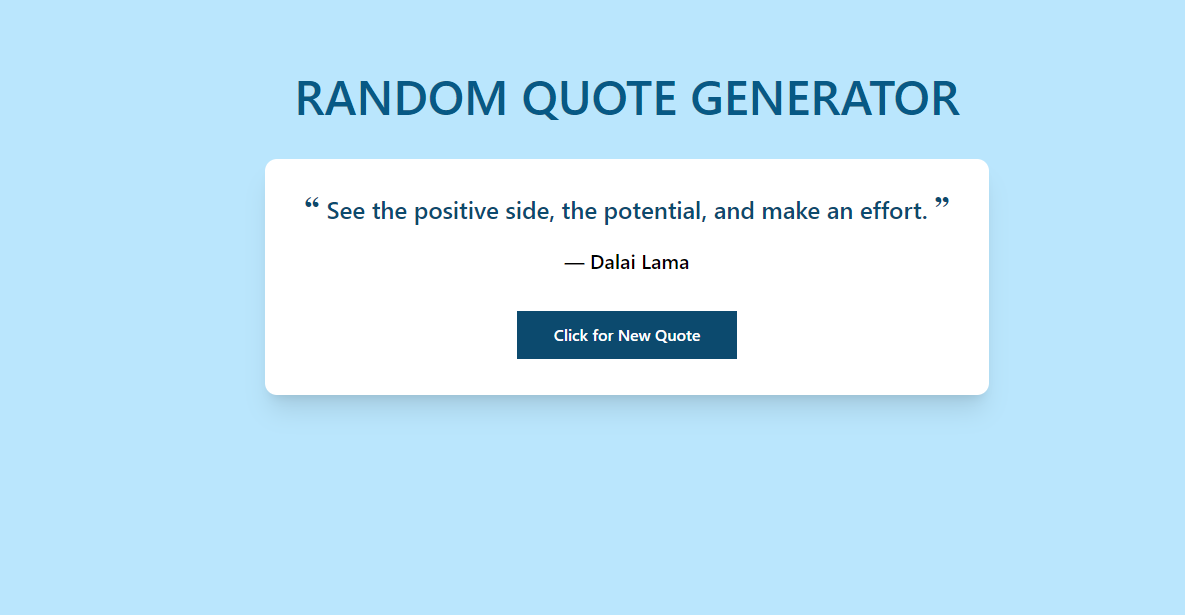
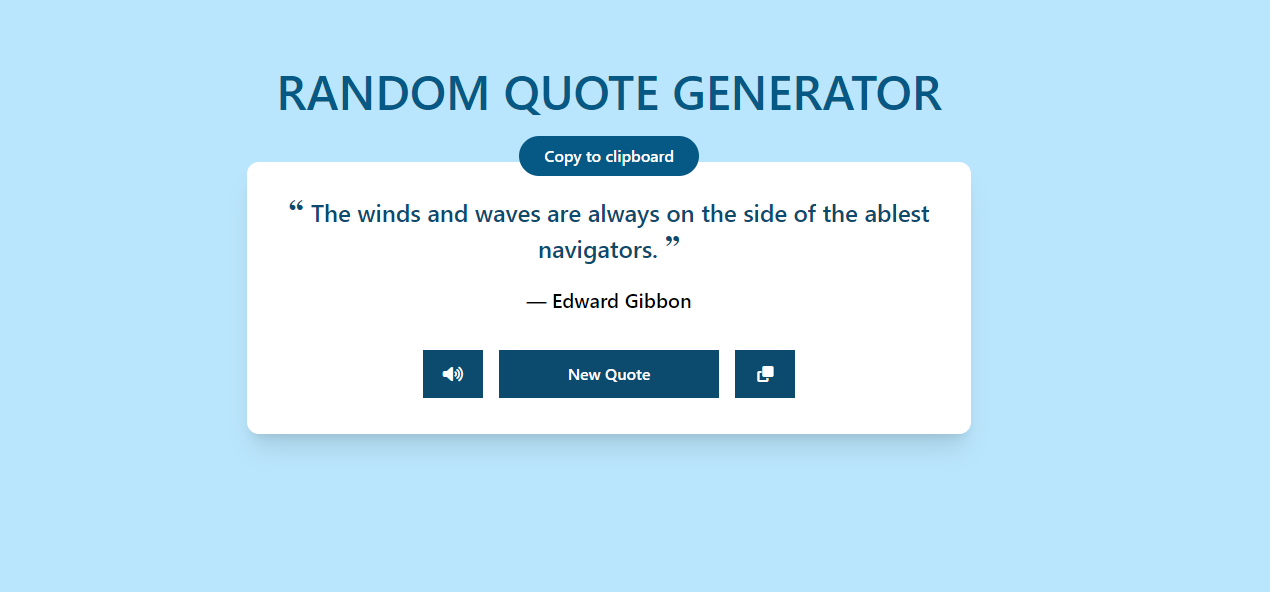
Copy and Speak feature

Changed region(s): [[0.1873, 0.1216, 0.843, 0.7601]]

diff --git a/index.html b/index.html
@@ -6,22 +6,39 @@
   <meta http-equiv="X-UA-Compatible" content="IE=edge">
   <meta name="viewport" content="width=device-width, initial-scale=1.0">
   <title>Random Quote Generator</title>
+  <link rel="stylesheet" href="https://cdnjs.cloudflare.com/ajax/libs/font-awesome/6.2.0/css/all.min.css" />
   <script src="https://cdn.tailwindcss.com"></script>
 </head>
 
 <body>
   <section class="bg-blueLight h-[100vh] text-center py-8 md:p-20  bg-sky-200 font-semibold">
     <h1 class="md:text-5xl mb-6 uppercase text-lg text-sky-800">Random Quote Generator</h1>
-    <div class="w-[90%] lg:w-[60%] mt-10 bg-white shadow-xl shadow-black-400 rounded-xl pt-8 px-8 mx-auto">
+    <p
+      class="tooltiptext hidden w-[180px] fixed text-center m-auto top-[100px] md:top-[150px] right-0 left-0 bg-sky-800 text-white p-2 rounded-full">
+      Copy to clipboard
+    </p>
+
+    <div class="w-[90%] lg:w-[60%] mt-12 bg-white shadow-xl shadow-black-400 rounded-xl pt-8 px-8 mx-auto">
       <h2 class="md:text-2xl mb-5 text-sky-900">
         <span class="text-3xl font-serif">&ldquo;</span>
         <span class="quote">Quote goes here</span>
         <span class="text-3xl font-serif leading-0">&rdquo;</span>
       </h2>
       <blockquote class="author text-lg text-base md:text-xl">-Author</blockquote>
-      <button
-        class="btn-quote p-3 bg-sky-900 my-9 text-white w-300 md:w-1/3  mx-auto ransition duration-700 ease-in-outhover:bg-sky-700 active:bg-sky-500 focus:outline-none focus:ring focus:ring-sky-300">
-        Click for New Quote</button>
+      <div class="block">
+        <a
+          class="btn-speak inline-block p-3 bg-sky-900 my-9 text-white w-300 md:w-[60px]  mx-auto ransition duration-700 ease-in-outhover:bg-sky-700 active:bg-sky-500 focus:outline-none focus:ring focus:ring-sky-300 mr-3">
+          <i class="fa fa-volume-up cursor-pointer"></i>
+        </a>
+        <a
+          class="btn-quote inline-block p-3 bg-sky-900 my-9 text-white w-300 md:w-1/3  mx-auto ransition duration-700 ease-in-outhover:bg-sky-700 active:bg-sky-500 focus:outline-none focus:ring focus:ring-sky-300 cursor-pointer mr-3">
+          New Quote</a>
+
+        <a
+          class="btn-copy inline-block p-3 bg-sky-900 my-9 text-white w-300 md:w-[60px]  mx-auto ransition duration-700 ease-in-outhover:bg-sky-700 active:bg-sky-500 focus:outline-none focus:ring focus:ring-sky-300 cursor-pointer">
+          <i class="fa-sharp fa-solid fa-copy"></i></a>
+
+      </div>
     </div>
   </section>
   <script src="script.js"></script>

diff --git a/script.js b/script.js
@@ -1,20 +1,48 @@
 // Variable declarations
-const quoteText =  document.querySelector(".quote");
+const quoteText = document.querySelector(".quote");
 const btnQuote = document.querySelector(".btn-quote");
 const quoteAuthor = document.querySelector(".author");
-
-function randomeQuoteGenerator(){
-  // Fetching the data from API
-
-  //fetch("http://quotes.stormconsultancy.co.uk/random.json")
-  fetch("https://api.quotable.io/random")
-  .then(response => response.json())
-  .then(data => {
-    quoteText.innerText = `${data.content}`;
-    quoteAuthor.innerText = `— ${data.author}`;
-  }); 
-}
-randomeQuoteGenerator();
+const speakBtn = document.querySelector(".btn-speak");
+const copyBtn = document.querySelector(".btn-copy");
+const toolTip = document.querySelector(".tooltiptext");
+const quoteApi = "https://api.quotable.io/random";
 
 // Event listener
 btnQuote.addEventListener("click", randomeQuoteGenerator);
+speakBtn.addEventListener("click", textToSpeak);
+copyBtn.addEventListener("click", copyText);
+
+function randomeQuoteGenerator() {
+  // Fetching the data from API
+  fetch(quoteApi)
+    .then(response => response.json())
+    .then(data => {
+      quoteText.innerText = `${data.content}`;
+      quoteAuthor.innerText = `— ${data.author}`;
+    });
+}
+randomeQuoteGenerator();
+
+function textToSpeak() {
+  let quoteSpeak = new SpeechSynthesisUtterance();
+  quoteSpeak.text = quoteText.innerText;
+  quoteSpeak.rate = 1; // the speed at which the text is spoken
+  quoteSpeak.pitch = 2; //sets a pitch(the relative highness or lowness of a tone)
+
+  //Author Speak 
+  let quoteAuhor = new SpeechSynthesisUtterance();
+  quoteAuhor.rate = 1;
+  quoteAuhor.pitch = 2;
+  quoteAuhor.text = quoteAuthor.innerText;
+
+  speechSynthesis.speak(quoteSpeak);
+  speechSynthesis.speak(quoteAuhor);
+}
+
+function copyText() {
+  navigator.clipboard.writeText(quoteText.innerText);
+  toolTip.classList.remove("hidden");
+  setTimeout(() => {
+    toolTip.classList.add("hidden");
+  }, 2000);
+}

diff --git a/README.md b/README.md
@@ -3,7 +3,7 @@
 
 This project developed with pure HTML and TailwindCSS mainly focused on Pure Javascript. <br/>
 
-A Quote generator app on each refresh that gives us different quotes.  
+A Quote generator app on each refresh that gives us different quotes with speak and copy features.  
 
 <br/>
 
@@ -16,10 +16,10 @@ A Quote generator app on each refresh that gives us different quotes.
 <br/>
 
 # Concepts used 
-- Event listner
+- Promises
 - fetch()
-- json()
-- promises 
+- SpeechSynthesisUtterance(): rate, picth, text, speak()
+-  navigator.clipboard.writeText
 
 
 # Time taken to finish this project :
